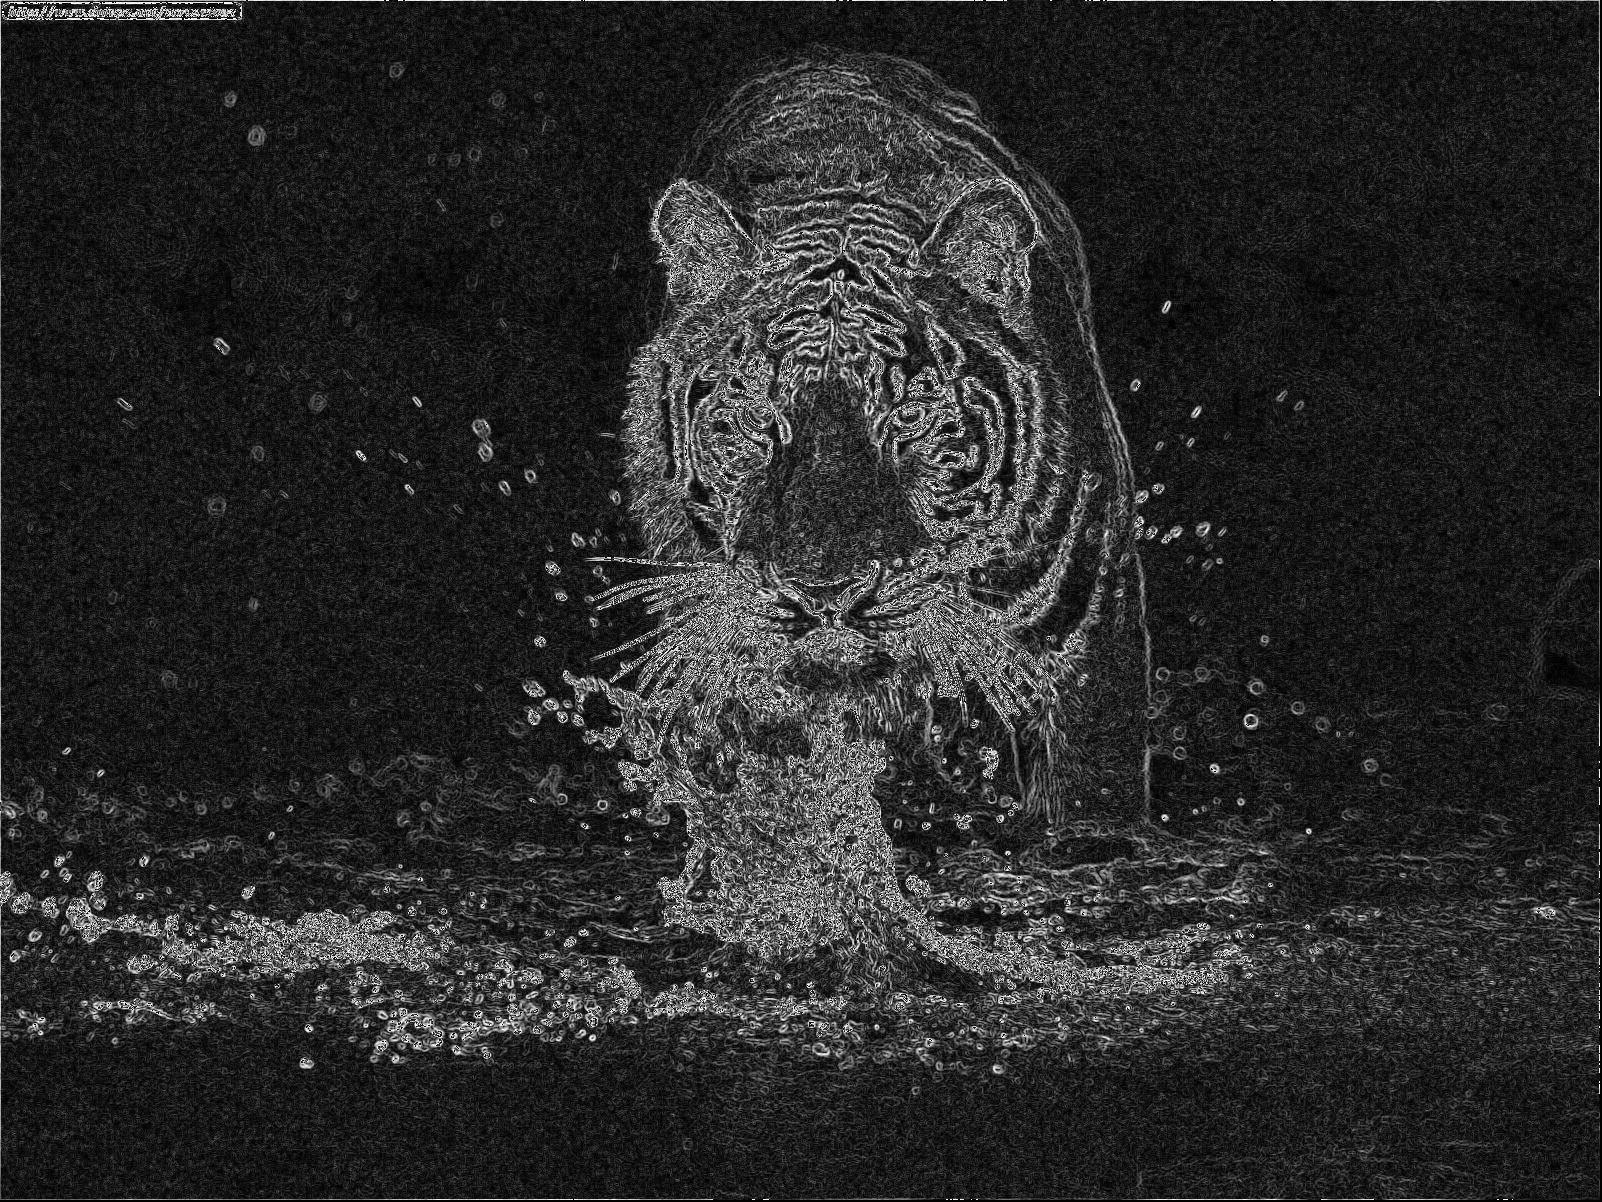
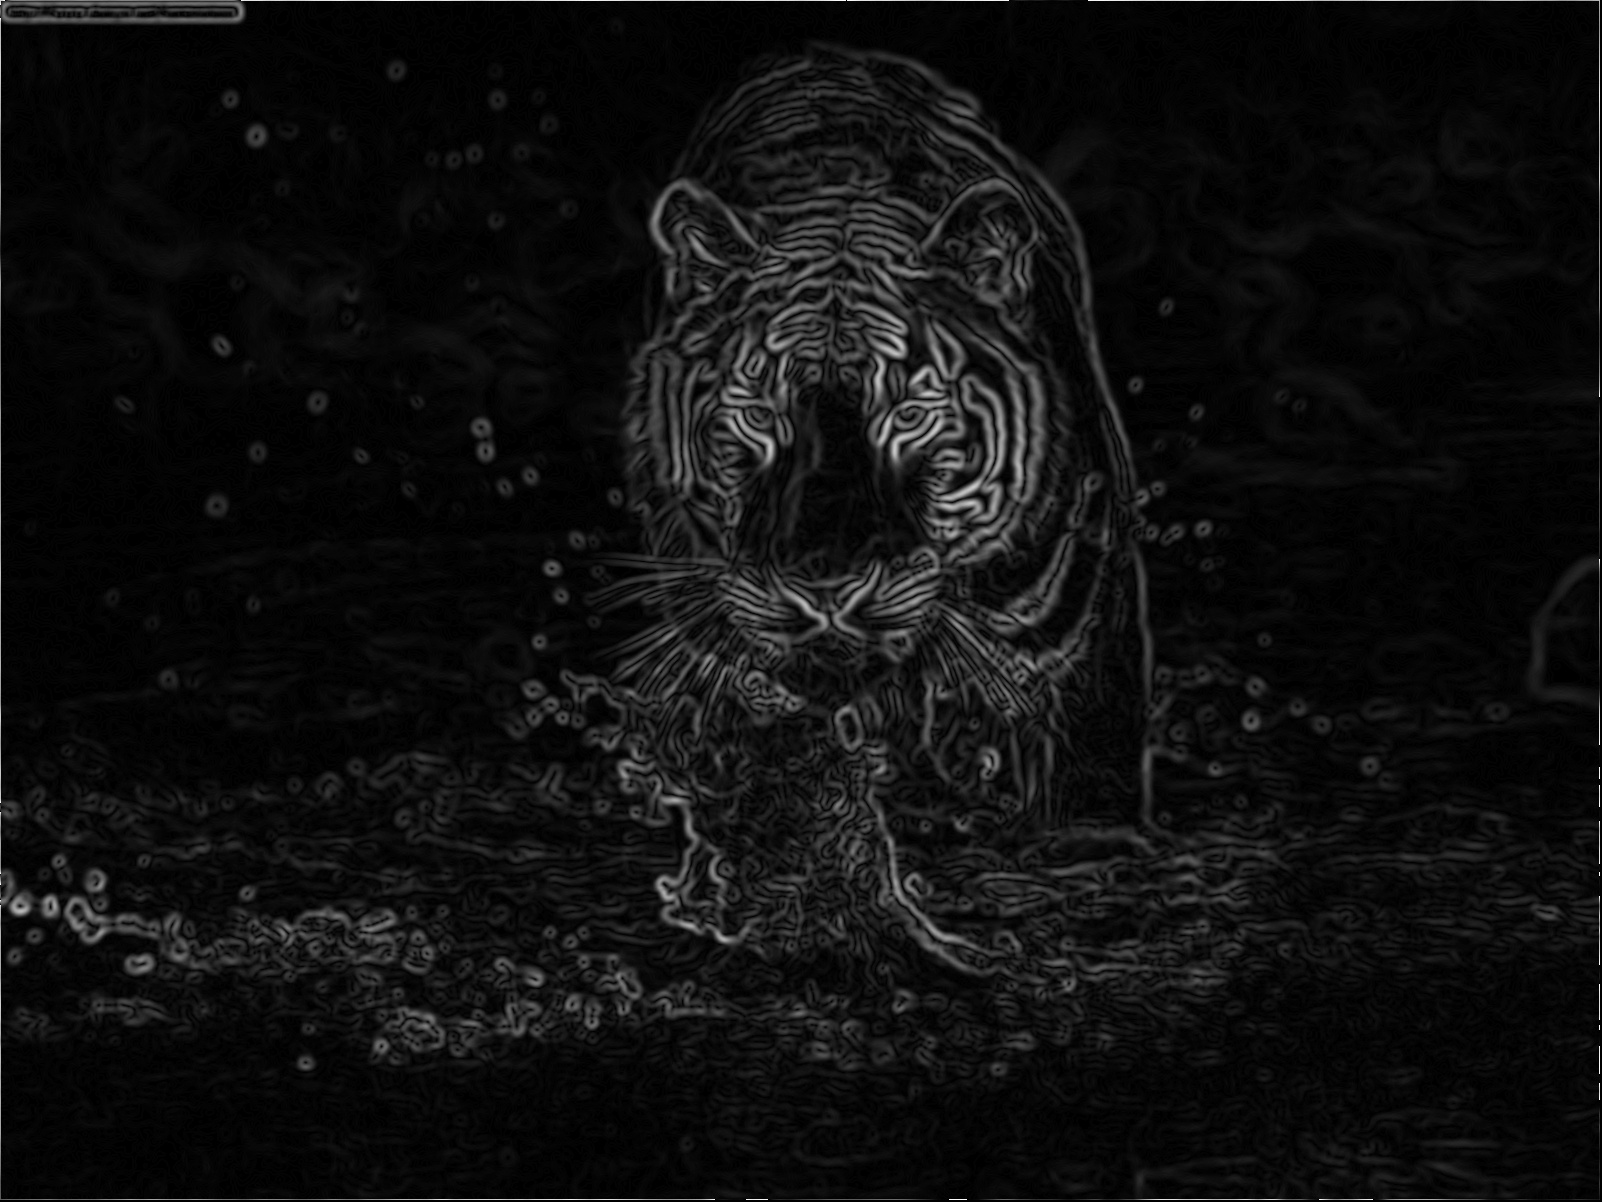
Final project with added Gaussian blur

diff --git a/task2/task2.py b/task2/task2.py
@@ -67,14 +67,19 @@ def detect(img, template, template_name):
     # TODO: implement this function.
 
     threshold = 0.95
+    print("Template path: ", template_name)
 
     if template_name == "./data/a.jpg":
+        print("template a")
         threshold = 0.90
     elif template_name == "./data/b.jpg":
-        threshold == 0.98
+        print("template b")
+        threshold = 0.977
     elif template_name == "./data/c.jpg":
+        print("template c")
         threshold = 0.97
 
+    print("Threshold= ", threshold)
     norm_img = normalize(img)
     norm_template = normalize(template)
 
@@ -119,11 +124,17 @@ def detect(img, template, template_name):
     return coordinates
 
 
-def drawResult(img, coordinates, template):
+def drawResult(img, coordinates, template, template_path):
     img_arr = np.asarray(img)
     trlen = len(template) - 1
     tclen = len(template[0]) - 1
     myColor = 0
+    # if template_path == "./data/a.jpg":
+    #     myColor = "#FF0000"
+    # elif template_path == "./data/b.jpg":
+    #     myColor == "#FF0000"
+    # elif template_path == "./data/c.jpg":
+    #     myColor = "#FF0000"
     print("drawing results for " + str(len(coordinates)) + " detected characters")
     for i in range(len(coordinates)):
             #print(str(i) + " " + str(coordinates[i][0]) + " " + str(coordinates[i][1]) + " " + str(trlen) +" "+str(tclen))
@@ -165,7 +176,7 @@ def main():
     save_results(coordinates, template, template_name, args.rs_directory)
 
     # cv2.imwrite("./results/", drawResult(img, coordinates))
-    result = drawResult(img, coordinates, template)
+    result = drawResult(img, coordinates, template, args.template_path)
     cv2.namedWindow('image', cv2.WINDOW_AUTOSIZE)
     cv2.imshow('image', result)
     cv2.waitKey(100000000)

diff --git a/task1/task1.py b/task1/task1.py
@@ -61,8 +61,12 @@ def read_image(img_path, show=False):
     if show:
         show_image(img)
 
-    img = [list(row) for row in img]
+    blurimg = cv2.GaussianBlur(img, (7, 7), cv2.BORDER_DEFAULT)
+    blurimg = cv2.GaussianBlur(blurimg, (7, 7), cv2.BORDER_DEFAULT)
+
+    img = [list(row) for row in blurimg]
     return img
+
 
 def show_image(img, delay=1000):
     """Shows an image.
